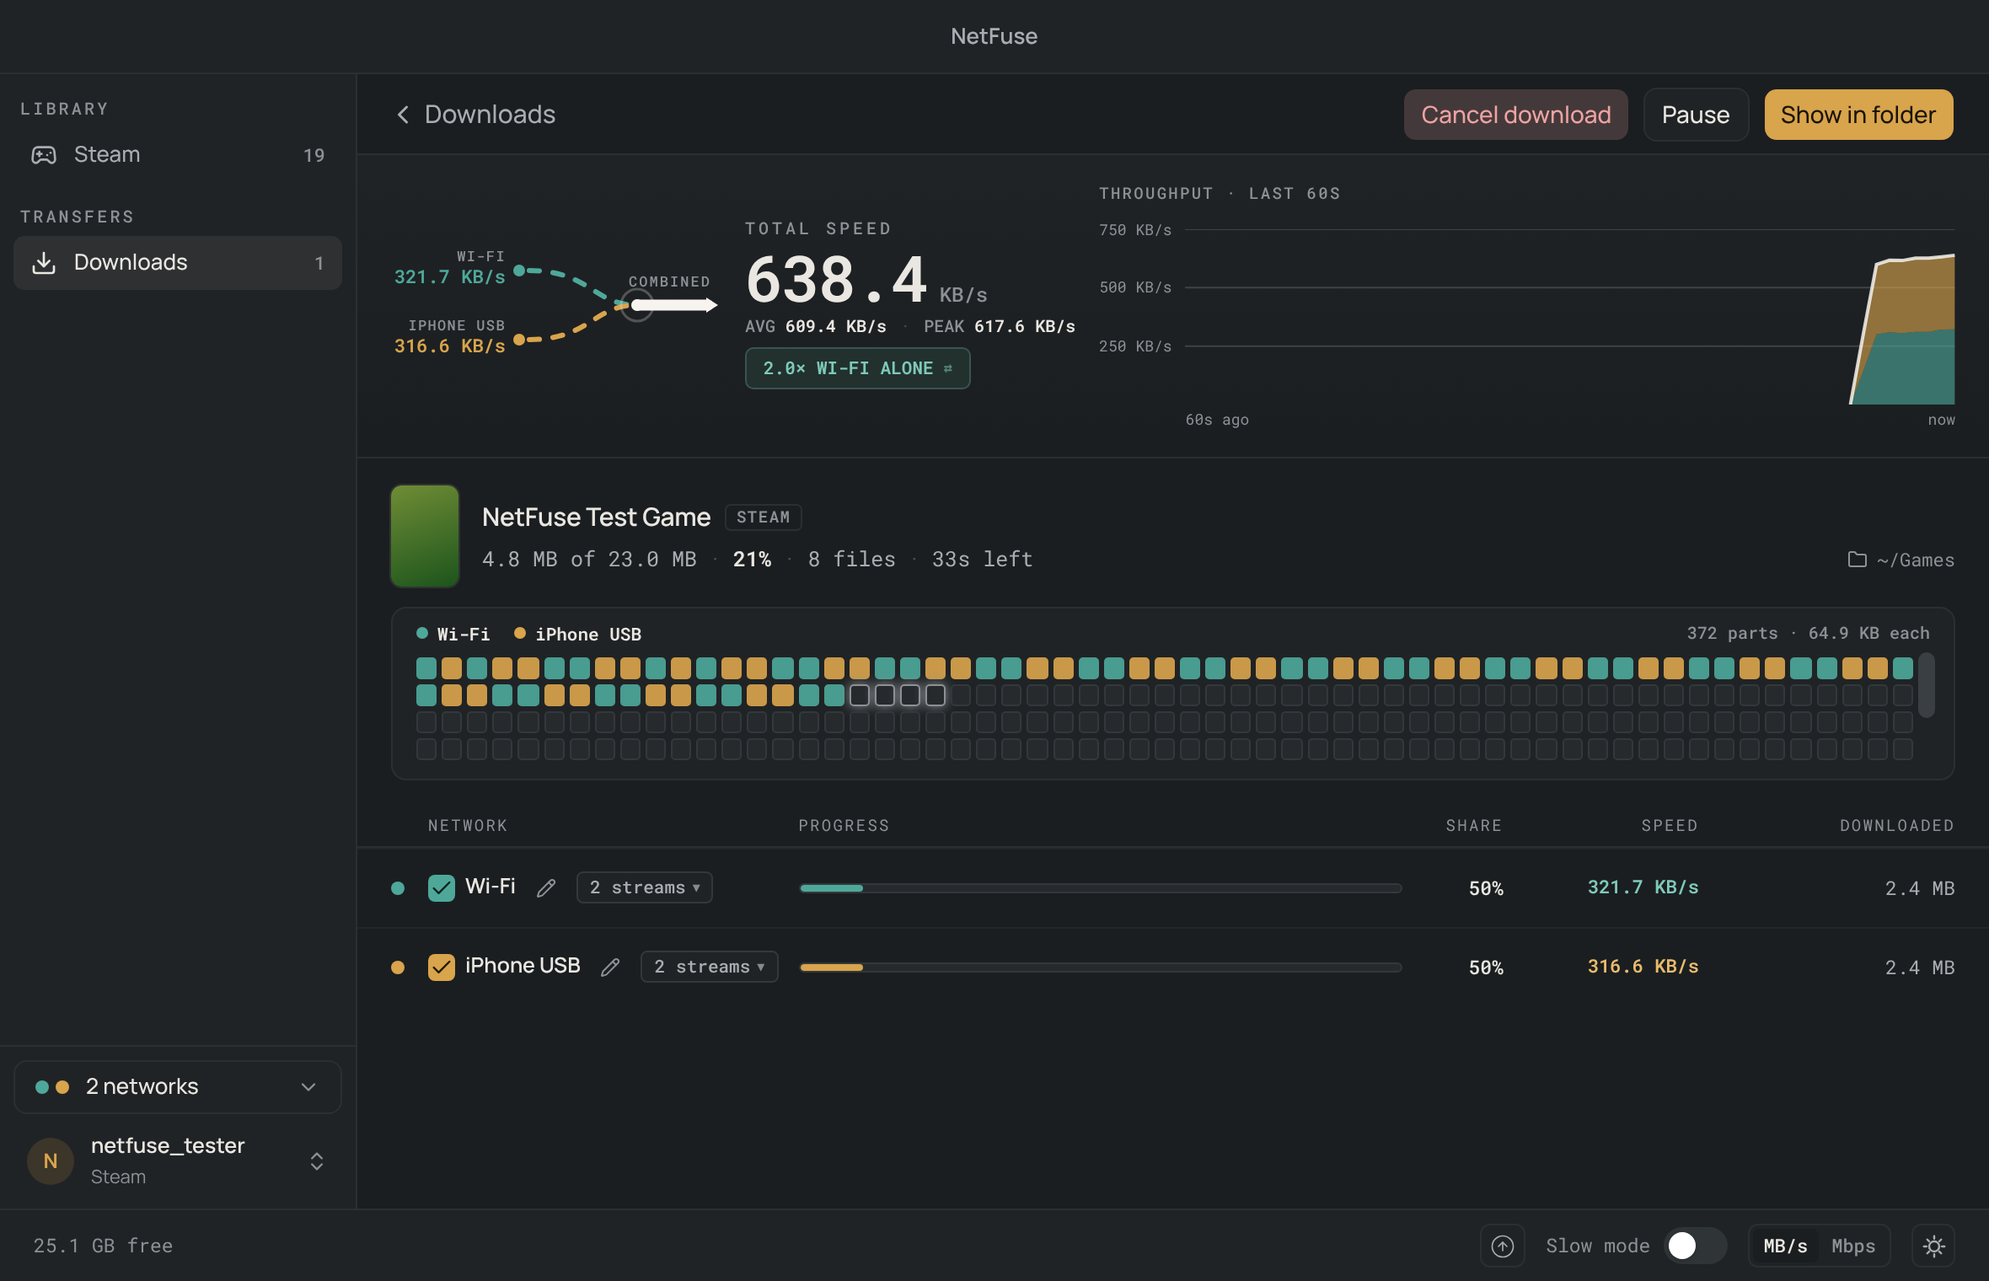
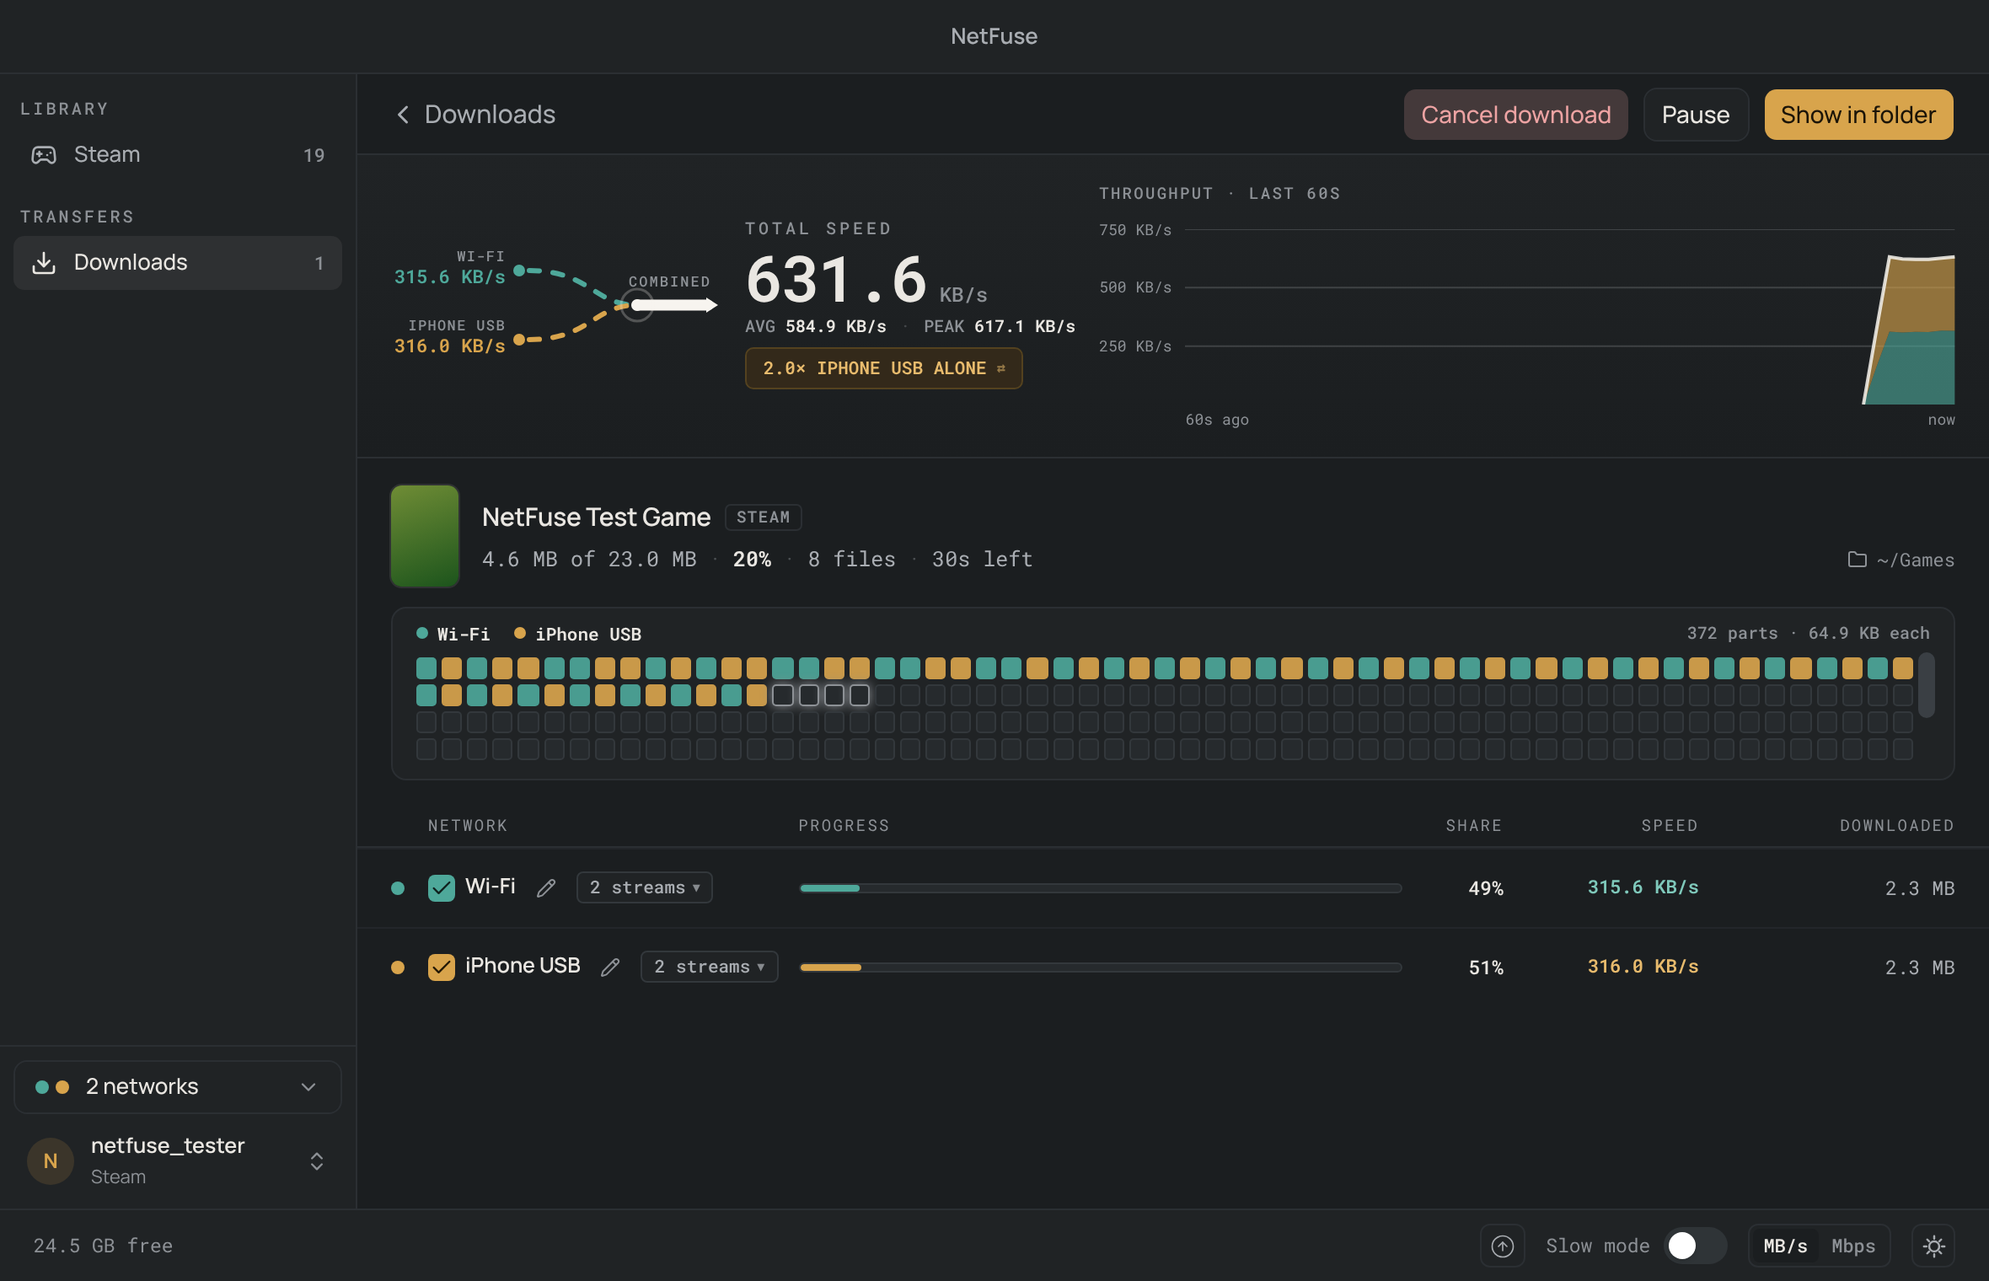
Filter the library by games, tools, or both; games by default
The library's title is now a menu, as the downloads list's is: Games
(games, demos and betas), Tools (Steam's tools and software) and Games
& tools, each with its count. It opens on Games, and the choice holds
while the window shows other screens. The downloads list's menu and
this one share a FilterMenu.

When nothing matches, "Show everything" clears the search and both
filters.

Claude-Session: https://claude.ai/code/session_01Nmbh5d3tA3hneye7m4QDJ7

diff --git a/src/renderer/src/screens/LibraryScreen.tsx b/src/renderer/src/screens/LibraryScreen.tsx
@@ -2,12 +2,13 @@ import type { SteamOwnedApp } from '@shared/steam'
 import { cn } from 'cn'
 import { AlertTriangle, Check, RefreshCw, Search } from 'lucide-react'
 import { memo, useEffect, useLayoutEffect, useMemo, useRef, useState } from 'react'
+import { FilterMenu } from '../components/FilterMenu'
 import { GameCapsule } from '../components/GameArt'
 import { FamilySharing } from '../components/steam/FamilySharing'
 import { Button } from '../components/ui/button'
 import { ToggleGroup, ToggleGroupItem } from '../components/ui/toggle-group'
 import { useGameState } from '../hooks/useGameState'
-import { useAppStore, type LibraryFilter } from '../store/useAppStore'
+import { useAppStore, type LibraryFilter, type LibraryKind } from '../store/useAppStore'
 import { describeGameState } from '../utils/gameState'
 
 // The account's Steam library: every game it owns, by its picture, with where each stands here
@@ -23,6 +24,17 @@ const CAPTION_PX = 44
 /** Rows drawn beyond the visible ones, so a quick scroll doesn't show blanks. */
 const OVERSCAN_ROWS = 2
 
+const KINDS: { value: LibraryKind; label: string }[] = [
+  { value: 'games', label: 'Games' },
+  { value: 'tools', label: 'Tools' },
+  { value: 'all', label: 'Games & tools' }
+]
+
+/** Which list an app belongs in, from its appinfo type. Steam lists its software ("application")
+ * with its tools; demos and betas are games. */
+const kindOf = (app: SteamOwnedApp): Exclude<LibraryKind, 'all'> =>
+  app.type === 'tool' || app.type === 'application' ? 'tools' : 'games'
+
 const FILTERS: { value: LibraryFilter; label: string }[] = [
   { value: 'all', label: 'All' },
   { value: 'installed', label: 'Installed' },
@@ -37,6 +49,8 @@ export function LibraryScreen(): React.JSX.Element {
   const setQuery = useAppStore((store) => store.setLibraryQuery)
   const filter = useAppStore((store) => store.libraryFilter)
   const setFilter = useAppStore((store) => store.setLibraryFilter)
+  const kind = useAppStore((store) => store.libraryKind)
+  const setKind = useAppStore((store) => store.setLibraryKind)
   const history = useAppStore((store) => store.history)
   const clientApps = useAppStore((store) => store.clientApps)
 
@@ -55,7 +69,10 @@ export function LibraryScreen(): React.JSX.Element {
     [history, clientApps]
   )
 
-  const all = library.status === 'ready' ? library.apps : []
+  const owned = library.status === 'ready' ? library.apps : []
+  const kindCounts: Record<LibraryKind, number> = { games: 0, tools: 0, all: owned.length }
+  for (const app of owned) kindCounts[kindOf(app)]++
+  const all = kind === 'all' ? owned : owned.filter((app) => kindOf(app) === kind)
   const needle = query.trim().toLowerCase()
   const apps = all.filter(
     (app) =>
@@ -66,7 +83,15 @@ export function LibraryScreen(): React.JSX.Element {
   return (
     <div className="flex h-full flex-col bg-background">
       <div className="flex h-12 shrink-0 items-center gap-3 border-b-[0.5px] border-border px-5">
-        <h1 className="shrink-0 text-[15px] font-semibold">Steam library</h1>
+        <div className="-ml-2.5 shrink-0">
+          <FilterMenu
+            options={KINDS}
+            value={kind}
+            counts={kindCounts}
+            onChange={setKind}
+            label="Show in the library"
+          />
+        </div>
         {library.status === 'ready' && (
           <span className="hidden shrink-0 font-mono text-[11.5px] text-muted-foreground tabular-nums min-[1000px]:inline">
             {apps.length === all.length ? all.length : `${apps.length} of ${all.length}`}
@@ -134,7 +159,7 @@ export function LibraryScreen(): React.JSX.Element {
       )}
       {library.status === 'ready' &&
         apps.length === 0 &&
-        (all.length === 0 ? (
+        (owned.length === 0 ? (
           <Message>This account owns nothing that can be downloaded.</Message>
         ) : (
           <div role="status" className="flex flex-col items-center gap-3 px-5 py-16 text-center">
@@ -145,9 +170,10 @@ export function LibraryScreen(): React.JSX.Element {
               onClick={() => {
                 setQuery('')
                 setFilter('all')
+                setKind('all')
               }}
             >
-              Show every game
+              Show everything
             </Button>
           </div>
         ))}
@@ -234,7 +260,7 @@ const GameCard = memo(function GameCard({
   const status = describeGameState(state)
   const going = state.kind === 'downloading' || state.kind === 'paused' || state.kind === 'queued'
   const installed = state.kind === 'installed' || state.kind === 'in-steam'
-  const kind = app.type !== 'game' ? app.type[0].toUpperCase() + app.type.slice(1) : null
+  const typeLabel = app.type !== 'game' ? app.type[0].toUpperCase() + app.type.slice(1) : null
 
   return (
     <button
@@ -273,7 +299,7 @@ const GameCard = memo(function GameCard({
             state.kind === 'error' ? 'text-[var(--color-danger)]' : 'text-muted-foreground'
           )}
         >
-          {status ?? kind ?? (app.borrowed ? null : ' ')}
+          {status ?? typeLabel ?? (app.borrowed ? null : ' ')}
           {!status && app.borrowed && <FamilySharing />}
         </span>
       </div>

diff --git a/src/renderer/src/components/DownloadFilterMenu.tsx b/src/renderer/src/components/DownloadFilterMenu.tsx
@@ -1,6 +1,5 @@
-import { Menu } from '@base-ui/react/menu'
-import { Check, ChevronDown } from 'lucide-react'
 import type { DownloadFilter } from '../store/useAppStore'
+import { FilterMenu } from './FilterMenu'
 
 const DOWNLOAD_FILTERS: { value: DownloadFilter; label: string }[] = [
   { value: 'all', label: 'All downloads' },
@@ -18,47 +17,13 @@ export function DownloadFilterMenu({
   counts: Record<DownloadFilter, number>
   onChange: (value: DownloadFilter) => void
 }): React.JSX.Element {
-  const label = DOWNLOAD_FILTERS.find((filter) => filter.value === value)!.label
   return (
-    <Menu.Root>
-      <h1>
-        <Menu.Trigger className="flex h-8 items-center gap-2 rounded-lg px-2.5 font-sans text-[14px] leading-none font-semibold outline-none hover:bg-secondary focus-visible:ring-2 focus-visible:ring-ring">
-          {label}
-          <ChevronDown aria-hidden className="size-3.5 text-muted-foreground" />
-        </Menu.Trigger>
-      </h1>
-      <Menu.Portal>
-        <Menu.Positioner align="start" sideOffset={8} className="isolate z-50">
-          <Menu.Popup className="w-52 rounded-xl border border-border bg-popover p-1.5 text-popover-foreground shadow-lg outline-none">
-            <Menu.RadioGroup
-              value={value}
-              onValueChange={onChange}
-              aria-label="Filter downloads"
-              className="flex flex-col gap-0.5"
-            >
-              {DOWNLOAD_FILTERS.map((filter) => (
-                <Menu.RadioItem
-                  key={filter.value}
-                  value={filter.value}
-                  label={filter.label}
-                  closeOnClick
-                  className="flex cursor-default items-center gap-2.5 rounded-md px-2 py-1.5 text-[13px] outline-none data-checked:bg-muted data-highlighted:bg-muted"
-                >
-                  <span className="size-4 shrink-0">
-                    <Menu.RadioItemIndicator>
-                      <Check aria-hidden className="size-4 text-primary" />
-                    </Menu.RadioItemIndicator>
-                  </span>
-                  <span className="flex-1">{filter.label}</span>
-                  <span className="font-mono text-[11.5px] text-muted-foreground tabular-nums">
-                    {counts[filter.value]}
-                  </span>
-                </Menu.RadioItem>
-              ))}
-            </Menu.RadioGroup>
-          </Menu.Popup>
-        </Menu.Positioner>
-      </Menu.Portal>
-    </Menu.Root>
+    <FilterMenu
+      options={DOWNLOAD_FILTERS}
+      value={value}
+      counts={counts}
+      onChange={onChange}
+      label="Filter downloads"
+    />
   )
 }

diff --git a/src/renderer/src/components/FilterMenu.tsx b/src/renderer/src/components/FilterMenu.tsx
@@ -1,0 +1,63 @@
+import { Menu } from '@base-ui/react/menu'
+import { Check, ChevronDown } from 'lucide-react'
+
+/** A screen's title that is also its filter: what is shown, and a menu of the other choices with
+ * how many each has. */
+export function FilterMenu<T extends string>({
+  options,
+  value,
+  counts,
+  onChange,
+  label
+}: {
+  options: { value: T; label: string }[]
+  value: T
+  counts: Record<T, number>
+  onChange: (value: T) => void
+  /** What the choices filter, for assistive tech. */
+  label: string
+}): React.JSX.Element {
+  const shown = options.find((option) => option.value === value)!.label
+  return (
+    <Menu.Root>
+      <h1>
+        <Menu.Trigger className="flex h-8 items-center gap-2 rounded-lg px-2.5 font-sans text-[14px] leading-none font-semibold whitespace-nowrap outline-none hover:bg-secondary focus-visible:ring-2 focus-visible:ring-ring">
+          {shown}
+          <ChevronDown aria-hidden className="size-3.5 text-muted-foreground" />
+        </Menu.Trigger>
+      </h1>
+      <Menu.Portal>
+        <Menu.Positioner align="start" sideOffset={8} className="isolate z-50">
+          <Menu.Popup className="w-52 rounded-xl border border-border bg-popover p-1.5 text-popover-foreground shadow-lg outline-none">
+            <Menu.RadioGroup
+              value={value}
+              onValueChange={onChange}
+              aria-label={label}
+              className="flex flex-col gap-0.5"
+            >
+              {options.map((option) => (
+                <Menu.RadioItem
+                  key={option.value}
+                  value={option.value}
+                  label={option.label}
+                  closeOnClick
+                  className="flex cursor-default items-center gap-2.5 rounded-md px-2 py-1.5 text-[13px] outline-none data-checked:bg-muted data-highlighted:bg-muted"
+                >
+                  <span className="size-4 shrink-0">
+                    <Menu.RadioItemIndicator>
+                      <Check aria-hidden className="size-4 text-primary" />
+                    </Menu.RadioItemIndicator>
+                  </span>
+                  <span className="flex-1">{option.label}</span>
+                  <span className="font-mono text-[11.5px] text-muted-foreground tabular-nums">
+                    {counts[option.value]}
+                  </span>
+                </Menu.RadioItem>
+              ))}
+            </Menu.RadioGroup>
+          </Menu.Popup>
+        </Menu.Positioner>
+      </Menu.Portal>
+    </Menu.Root>
+  )
+}

diff --git a/e2e/steamUi.spec.ts b/e2e/steamUi.spec.ts
@@ -161,8 +161,50 @@ test.describe('the window', () => {
       .getByRole('button', { name: 'Installed', exact: true })
       .click()
     await expect(page.getByText('Nothing in your library matches')).toBeVisible()
-    await page.getByRole('button', { name: 'Show every game' }).click()
+    await page.getByRole('button', { name: 'Show everything' }).click()
     await expect(library(netfuse).getByRole('button', { name: 'Game 000' })).toBeVisible()
+  })
+
+  test('the library lists games by default, and tools or both when asked', async ({
+    netfuse,
+    serveSteam
+  }) => {
+    const otherApps = [
+      { appId: 7010, name: 'Level Editor', type: 'Tool' },
+      { appId: 7020, name: 'Wallpaper Studio', type: 'Application' },
+      { appId: 7030, name: 'Starfall Demo', type: 'Demo' }
+    ]
+    await serveSteam(undefined, { otherApps })
+    await netfuse.loginSteam()
+    const page = netfuse.page
+    const names = (): Promise<string[]> =>
+      library(netfuse)
+        .getByRole('button')
+        .evaluateAll((buttons) => buttons.map((button) => button.getAttribute('aria-label') ?? ''))
+
+    await expect(library(netfuse).getByRole('button', { name: 'NetFuse Test Game' })).toBeVisible()
+    expect(await names()).toEqual(['NetFuse Test Game', 'Starfall Demo'])
+
+    const show = async (label: string): Promise<void> => {
+      await page
+        .getByRole('heading')
+        .getByRole('button', { name: /^(Games|Tools|Games & tools)$/ })
+        .click()
+      // Each says how many it has, after its name.
+      await page.getByRole('menuitemradio', { name: new RegExp(`^${label}`) }).click()
+    }
+    await show('Tools')
+    await expect(library(netfuse).getByRole('button', { name: 'Level Editor' })).toBeVisible()
+    expect(await names()).toEqual(['Level Editor', 'Wallpaper Studio'])
+    await show('Games & tools')
+    await expect(library(netfuse).getByRole('button')).toHaveCount(4)
+
+    // The choice holds while the window shows other things.
+    await nav(netfuse, 'Downloads').click()
+    await nav(netfuse, 'Steam').click()
+    await expect(
+      page.getByRole('heading').getByRole('button', { name: 'Games & tools' })
+    ).toBeVisible()
   })
 
   test('Auto-detect finds the Steam libraries, and installs into the one that has the game', async ({

diff --git a/src/renderer/src/store/useAppStore.ts b/src/renderer/src/store/useAppStore.ts
@@ -35,6 +35,10 @@ export type LibraryLoad =
 
 export type LibraryFilter = 'all' | 'installed' | 'not-installed'
 
+/** Which of the library's apps are listed: games (demos and betas too), tools (Steam's tools and
+ * software), or both. */
+export type LibraryKind = 'games' | 'tools' | 'all'
+
 interface AppStore {
   interfaces: NetworkInterfaceInfo[]
   interfacesStatus: LoadStatus
@@ -62,6 +66,7 @@ interface AppStore {
   /** What the library's search and filter are set to, kept while the window shows other things. */
   libraryQuery: string
   libraryFilter: LibraryFilter
+  libraryKind: LibraryKind
   /** The apps the Steam client itself has installed on this computer. */
   clientApps: number[]
   /** Persisted — how many downloads run at once; the rest wait in the queue. */
@@ -95,6 +100,7 @@ interface AppStore {
   loadLibrary: (refresh?: boolean) => Promise<void>
   setLibraryQuery: (query: string) => void
   setLibraryFilter: (filter: LibraryFilter) => void
+  setLibraryKind: (kind: LibraryKind) => void
   loadClientApps: () => Promise<void>
   setDownloadsAtOnce: (count: number) => void
   /** Each one applies at once, to every download (see main/network/limits.ts). */
@@ -135,6 +141,7 @@ export const useAppStore = create<AppStore>((set, get) => ({
   library: { status: 'idle' },
   libraryQuery: '',
   libraryFilter: 'all',
+  libraryKind: 'games',
   clientApps: [],
   downloadsAtOnce: initial.downloadsAtOnce,
   speedLimit: initial.speedLimit,
@@ -225,6 +232,7 @@ export const useAppStore = create<AppStore>((set, get) => ({
 
   setLibraryQuery: (libraryQuery) => set({ libraryQuery }),
   setLibraryFilter: (libraryFilter) => set({ libraryFilter }),
+  setLibraryKind: (libraryKind) => set({ libraryKind }),
 
   loadClientApps: async () => {
     const clientApps = await window.netfuse.steamClientApps().catch(() => [])

diff --git a/docs/steam/DESIGN.md b/docs/steam/DESIGN.md
@@ -346,7 +346,7 @@ Every handler checks its arguments at runtime: integers, string lengths, branch 
 
 - **Login first.** Until Steam is logged in, the window shows only the login (`LoginScreen`, with `SteamLogin` in it): account name and password or a QR code, then a Steam Guard code or an approval in the mobile app. The first login-state request waits until the stored login has been looked for, so someone who stays logged in never sees the form flash up. "Stay logged in" is disabled, with the reason, when there's no system keychain.
 - **Sidebar.** Under Library, a row per launcher (Steam, with its game count); under Transfers, Downloads with how many are unfinished. At its foot the networks menu (with Speed & data limits and the schedule) and the account, whose menu logs out. Another launcher gets a row and a library screen; nothing else moves.
-- **Library** (`LibraryScreen`). Every owned game by its portrait picture, searched by name or app id and filtered by All, Installed or Not installed. Each card says where the game stands: its download's progress, installed by NetFuse, or installed by the Steam client (an `appmanifest_<id>.acf` in one of its libraries, `steamClientApps`). Only the rows in view are drawn, so a library of thousands stays light.
+- **Library** (`LibraryScreen`). Every owned game by its portrait picture, searched by name or app id and filtered by All, Installed or Not installed. Its title is a menu of Games (the default: games, demos and betas), Tools (Steam's tools and software) and Games & tools, each with its count. Each card says where the game stands: its download's progress, installed by NetFuse, or installed by the Steam client (an `appmanifest_<id>.acf` in one of its libraries, `steamClientApps`). Only the rows in view are drawn, so a library of thousands stays light.
 - **Pictures** (`steam/art.ts`). The window asks for `game-art://steam/<appId>/<capsule|header|hero>`; the main process fetches it from Steam's store CDN, at the path the app's appinfo gives or Steam's usual file name, and keeps it under `userData/art`. Six at a time, at most 12 MB, JPEG, PNG or WebP only; a picture Steam doesn't have is noted as missing for three days. A game with no portrait picture shows its header over a blur of itself, and one with neither its name on a color of its own.
 - **Game page** (`GameScreen`). Its banner, name and state, a way to its download or its install folder, then what to install:
   - Branch, then OS, architecture and language filters, then a depot checklist with the defaults pre-ticked. DLC and shared depots are labelled, and a borrowed license says Family Sharing.

diff --git a/README.md b/README.md
@@ -37,7 +37,7 @@
 
 ## What it does
 
-- **Your whole Steam library**, by its pictures: search it, and see at a glance what's installed, downloading or installed by Steam itself
+- **Your whole Steam library**, by its pictures: games by default, or tools, or both. Search it, and see at a glance what's installed, downloading or installed by Steam itself
 - **Every network at once**: a game's chunks are spread across the connections you choose, and faster networks fetch more
 - **Log in the way Steam lets you**: account name and password with a Steam Guard code (email or the Steam Mobile App), or a QR code
 - **Choose what to install**: branch, system, architecture, language and depots, with download size, install size and free space shown
